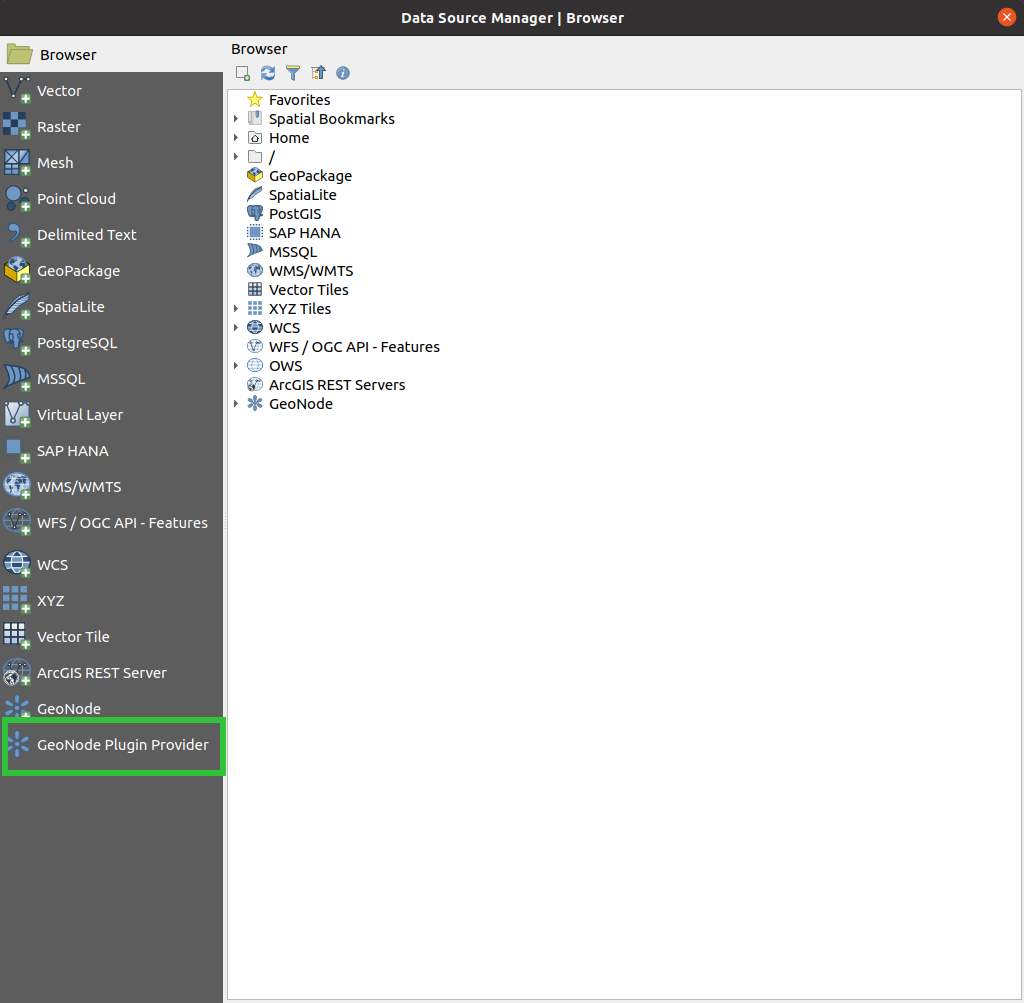
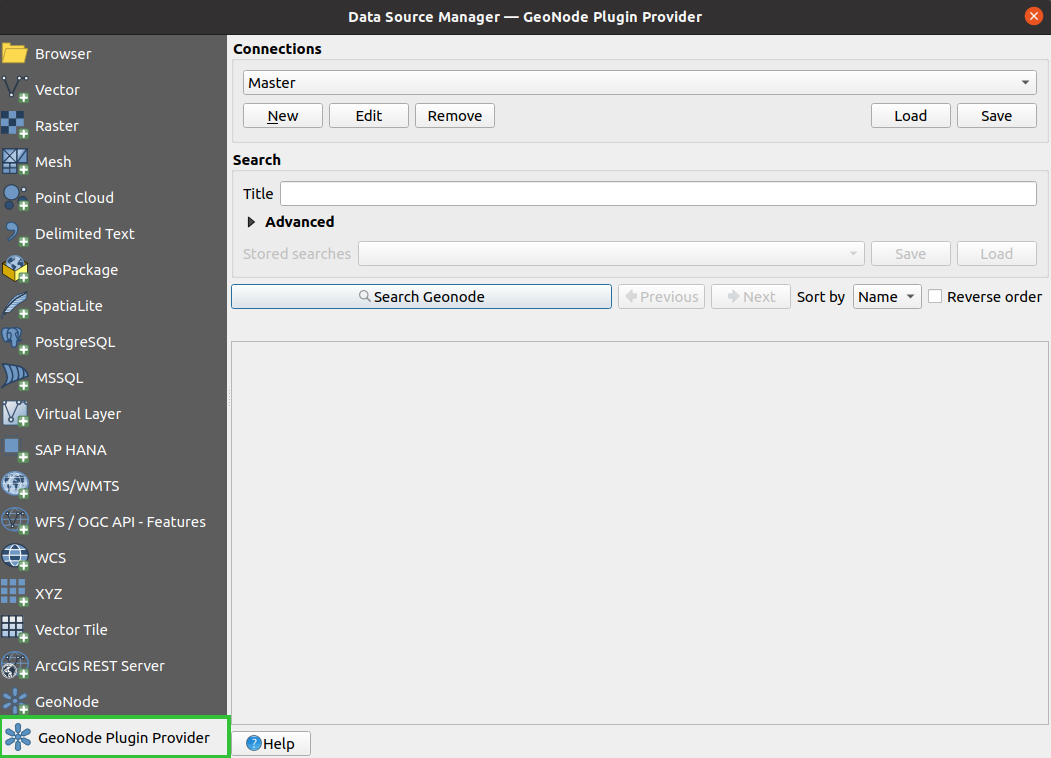
second review changes

Changed region(s): [[0.0, 0.0, 1.0, 1.0], [0.8438, 0.091, 1.0, 0.1821], [0.9688, 0.2124, 1.0, 0.2731]]

diff --git a/docs/user-guide.md b/docs/user-guide.md
@@ -1,6 +1,6 @@
 # User guide
 
-This guide will take you through how to use the QGIS GeoNode plugin to access GeoNode instances resources inside QGIS.
+This guide is going to show you how to use the QGIS GeoNode plugin to access GeoNode instances resources inside QGIS.
 
 ## Add a GeoNode instance
 To add a GeoNode instance follow the below steps.
@@ -9,117 +9,159 @@ To add a GeoNode instance follow the below steps.
    
      ![GeoNode Plugin Provider](images/user_guide/data_source_manager.png)
   
-2. Inside "Connection" group box, click "New" button, a connection dialog will be shown.
-3. Enter the GeoNode instance details "Name" and "URL", if the instance supports authentication, you can
-  choose the authentication configurations for the instance using the QGIS authentication configuration selector widget 
-     available on the connection dialog.
+2. Add a new GeoNode instance connection, click a button with a label "New" which is inside the "Connections" group box,
+   then a dialog for filling in connection details will be shown.
+3. Enter the GeoNode instance details "Name" and "URL", the "URL" is for the GeoNode URL, if the instance supports 
+   authentication, you can choose the authentication configurations for the instance using the QGIS authentication 
+   configuration selector widget available on the connection dialog.
      
      To add new authentication configuration, click a button with ![add symbol](images/user_guide/add_symbol.svg) symbol
      which is beside the authentication configurations list combo box, the following dialog will be shown.
-     ![Adding authentication configuration](images/user_guide/adding_authentication.png)
+     ![Adding authentication configuration](images/user_guide/add_authentication.png)
    `Basic Authentication` will be selected by default the first time the dialog is loaded, other authentication types are 
    available including OAuth2 authentication.
    
-    Select the type that you want, and add all the required credentials then click save the 
-   authentication configuration will be saved and selected to be used for the connection.
+    For API V2 we recommend to use OAuth2 with the Authorization code flow, for the legacy API use OAuth2 with 
+   authorization code flow and also provide the username and password on the additional UI controls that are shown on 
+   connection configuration dialog.
    
-    Example OAuth2 authentication configuration
-   ![GeoNode demo OAuth2 configuration](images/user_guide/geonode_oauth2_authentication.png)
-    The above image shows usage of a `Resource owned` OAuth2 configuration grant type and 
-   contains sample credentials for `Token URL`, `Client ID`, `Client Secret`, `Username` and `Password`, all these details
-   are supplied  by OAuth2 server credentials(for this case GeoNode). If you don't have the credentials, 
-   contact the GeoNode instance admin to acquire them.
+    The below image shows usage of a OAuth2 configuration with a `Authorization code` grant type and 
+    sample `Token URL`, `Client ID`, `Client Secret`, all these details
+     are supplied  by OAuth2 server credentials(for this case GeoNode).
+    ![GeoNode demo OAuth2 configuration](images/user_guide/geonode_oauth2_auth.png)
+   
+    ### GeoNode API V2
+    GeoNode API V2 is the latest API added in GeoNode, available from GeoNode version 3.2 and later versions, the API 
+    conforms to the [OpenAPI](https://swagger.io/specification/) specification which is a descriptive format for REST APIs.
+    
+    When creating connections that are using this API, select V2 from the API version list. 
+    The API V2 support using OAuth2 usage, to add or use OAuth2 configurations, 
+    follow instructions described on step no 2 of the previous section.
+    
+    ### GeoNode API CSW
+    The CSW API exposes GeoNode resources via a CSW( Catalogue Service-Web) which is a web specification
+    for accessing geo-spatial data using [XML](https://en.wikipedia.org/wiki/XML). All GeoNode instances support this API.
+    
+    This API doesn't support OAuth2 authentication instead it supports basic authentication,
+    when connecting to GeoNode instance that uses CSW API users will be required to supply username and password, 
+    in order to access private resources on the GeoNode instance.
+
    
 4. Through the "API version" list choose the API that the connection should be connected to with. They
 are two options at the moment, CSW API and the API version 2 the latter is available from GeoNode instances that use the
    master version. Click the "auto detect" button, to automatically detect and select the API version for the GeoNode instance.
    
-5. Set the search results page size inside the page size input. By default, the size is 10, 
-   only integers greater than zero are allowed to be used.
+5. Search results page size can be set inside the page size input. By default, the size is 10.
    
-6. Test the GeoNode instance connection by using a button with a label "Test Connection", click the button and if
-connection is valid "Connection is valid" message will be displayed on the message bar otherwise a 
-   "Connection is invalid" error message will be shown.
-7. Click "Ok" button after finishing adding all the details, and the connection will be added. 
-   Connection configurations using GeoNode demo instance
-   ![GeoNode demo connection](images/user_guide/master_demo.png)
-  
-
-### GeoNode API V2
-GeoNode API V2 is the latest API added in GeoNode, available from GeoNode version 3.2 and later versions, the API 
-conforms to the [OpenAPI](https://swagger.io/specification/) specification which is a descriptive format for REST APIs.
-
-When creating connections that are using this API, select V2 from the API version list. 
-The API V2 support using OAuth2 usage, to add or use OAuth2 configurations, 
-follow instructions described on step no 2 of the previous section.
-
-### GeoNode API CSW
-The CSW API exposes GeoNode resources via a CSW( Catalogue Service-Web) which is a web specification
-for accessing geo-spatial data using [XML](https://en.wikipedia.org/wiki/XML). All GeoNode instances support this API.
-
-This API doesn't support OAuth2 authentication instead it supports basic authentication,
-when connecting to GeoNode instance that uses CSW API users will be required to supply username and password, 
-in order to access private resources on the GeoNode instance.
-
+6. Click the "Test Connection" button to verify if the connection works.
+   
+7. Click "Ok" button after finishing adding all the details, to add the connection.
+   
+   The picture below shows how you can configure anonymous access to the main GeoNode demo server
+   
+   ![GeoNode demo connection](images/user_guide/add_connection_configuration.png)
+   
 
 ## Search and load GeoNode layer into QGIS
 
-- Searching layers
-  
-    Make sure the intended GeoNode instance connection is selected from the connections list inside the Connection 
-    group box, then click the "Search Geonode" button, after searching is complete a list of search results will be 
-    populated in a scroll area below the search buttons.
-    
-    Example search results
-    ![search results](images/user_guide/example_search_results.png)
-  
-- Using the search filters
-  
-    Each of the API version has a set of supported filters, 
-    for API version 2 available search filters are on 
-  
-    `title`, `abstract`, `keywords`, `categories`, `resources types`, 
-    `temporal extent` and `publication date` properties.
-  
-    for CSW API available filters are only on `title` and `abstract`
+### Searching layers
+Select the intended connection from the connections list, then click the "Search Geonode" button, 
+after searching is complete a list of search results will be populated in a scroll area below the search buttons.
 
-    Filtering using `title`, `abstract` and `keywords` will search for resources that 
-    contains the corresponding values. 
-    
-    Using the `category` or the `resource types` will return resources
-    that have the exact match on the values.
-    
-    While filtering using the `temporal extent` and/or `publication date` will return resources that have greater 
-    than the start datetime and less than the end datetime in either of the properties, the start and end datetime are exclusive.
-    
-    The support for `spatial extent` is not yet available.
+Buttons "Previous" and "Next" are used to navigate search results when the results have been paginated.
 
-- Ordering results
-
-    When searching for resources the results are ordered using their `name` by default, currently it is the only field
-    that is allowed for ordering results. The "Reverse order" checkbox which is beside "Sort by" combo box,
-    is used to change the order of the results, when unchecked the results return in ascending order and otherwise
-    when it is checked.
-- Checking a layer's page on the GeoNode instance
+Below image shows search results after search on the GeoNode demo server
+![search results](images/user_guide/search_results.png)
   
-    All search results item contain an "Open in Browser" button, which when clicked opens the layer GeoNode page
-    using the default browser.
-  
-- Loading a layer onto QGIS
+### Using the search filters
 
-    In each of the search result items there are buttons to enable loading the result resource using the available 
-    QGIS OGC providers (WMS for maps, WFS for vector and WCS for raster resources), in order to load the layer in QGIS
-    click the available buttons for the respective providers.
+The following search filters are supported
+
+- `Title`
+  
+    The resource title is used to filter search results and returning records that contains the supplied title.
+
+- `Abstract`
     
-    For the vector based resources WFS button be available, raster resources will contain the WCS button and WMS always be
-    available for all resources that support it, if there is a problem with the resource URI the OGC buttons will not 
-    be available as the resource will not be loadable.
+    Same as a title filter, records that contains the provided abstract value will be returned.
 
-- Inspecting layer metadata
+- `Keywords` 
+    
+    Search will filter all resources that have keywords that exactly matches the selected keyword. 
+
+- `Topic Categories`
   
-    When loading the layer inside QGIS, the provider also load the available metadata from GeoNode into QGIS 
-    layer metadata. To view the added metadata, right-click on the added layer and click _Properties..._  then from the 
-    Properties dialog select the _Metadata_ page.
+    Filters the resources that their categories exactly matches the selected category.
+
+- `Resources types`
+  
+    Resource type filter, selects resources based on the selected resource types, the resource type filtering is 
+    mutually inclusive, if more than one type is selected, the search results will include all resources 
+    that have been the selected.
+
+- `Temporal extent` 
+  
+    Temporal extent filter is used to filter resources based on the stored temporal extent. Two fields 
+    `start` and `end` are used to represent the beginning and end of the extent respectively, during filtering
+    both fields values are excluded.
+    
+    When both fields are supplied, resources containing temporal extent that is greater than `start` and less than `end` 
+    will be returned. If only `start` is provided, resources with the temporal extent beginning that is greater than 
+    `start` will be returned, if only `end` is provided resource with temporal extent end that is less than 
+    `end` will be returned.
+  
+
+- `Publication date`
+  
+    This filter has similar conditions as the Temporal extent filter, the difference here is the filter is applied
+    to the resource's publication date and not the resources temporal extent.
+  
+
+- `Spatial Extent`
+  
+    The spatial extent filter is used to filter resources based on their geospatial extent, the extent can be filled by
+    using a QGIS layer extent, map canvas extent or values can be manually added.
+
+
+Currently, each of the API version supports only certain filters, 
+for API version 2 all search filters are supported except the `Spatial Extent` filter, while the CSW API supports only 
+`Title` and `Abstract` filters.
+ 
+### Ordering results
+
+When searching for resources the results are ordered using their `name` by default, currently it is the only field
+that is allowed for ordering results. The "Reverse order" checkbox which is beside "Sort by" combo box,
+is used to change the order of the results, when unchecked the results return in ascending order and otherwise
+when it is checked.
+
+### Layer's page on the GeoNode instance
+  
+All search results item contain an "Open in Browser" button, which when clicked opens the layer GeoNode page
+using the default browser.
+  
+### Loading a layer onto QGIS
+
+After searching layers is complete, the search results items provide options for loading layers for the 
+corresponding resources inside QGIS. 
+
+Each search item has buttons that load layers via QGIS OGC providers e.g.  WMS for loading maps, WFS for loading 
+vector layers and WCS for loading raster layers.
+
+The WFS button is used load the vector layers, WCS button for raster layers and WMS button is always
+available for all resources that support it, if there is a problem with the resource URI the OGC buttons will not 
+be available.
+
+### Inspecting layer metadata
+  
+When loading the layer inside QGIS, the layer metadata from GeoNode are added into the loaded layer as
+QGIS layer metadata.
+
+To view the added metadata, right-click on the added layer and click _Properties..._  then from the 
+Properties dialog select the _Metadata_ page.
+
+Image showing metadata page that contains metadata for layer with title 'ARANDANO BRIGITTA 2030' 
+from the GeoNode demo server
+![GeoNode demo OAuth2 configuration](images/user_guide/layer_metadata.png)
 
 
 ## Synchronize a loaded layer with GeoNode
